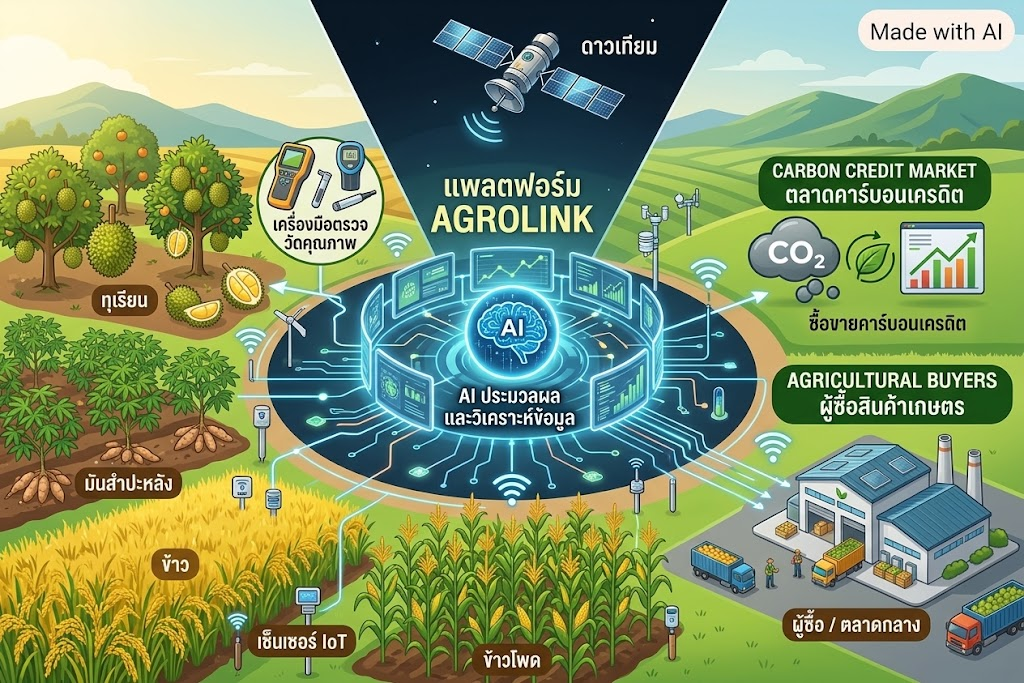
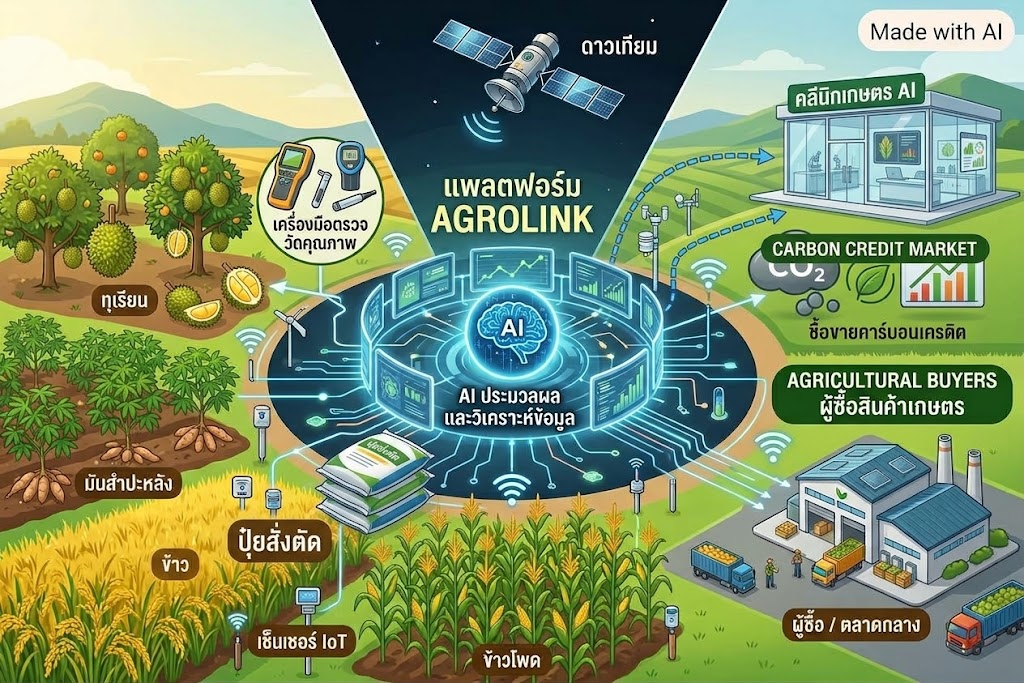
แทนที่ภาพอินโฟกราฟิกแพลตฟอร์ม AGROLINK ในเมนูเกษตรกรผู้ปลูกพืช
- แทนที่ assets/crop-farmer-platform-infographic.jpg ด้วยเวอร์ชันใหม่ที่มีกล่อง
  "คลินิกเกษตร AI" เชื่อมด้วยเส้นประ และไอคอนปุ๋ยสั่งตัดเฉพาะแปลงเพิ่มเติม
- ปรับข้อความ alt/caption (for-farmers-crop_82, _83) ใน
  js/i18n-for-farmers-crop.js และ inline alt ใน for-farmers-crop.html
  ให้ตรงกับเนื้อหาภาพใหม่ (คลินิกเกษตร AI, ตลาดคาร์บอนเครดิต, ผู้ซื้อ,
  คำแนะนำปุ๋ยสั่งตัด)

QA ที่ทำ:
- ตรวจสอบ HTML tag balance ของ for-farmers-crop.html ผ่าน
- ตรวจสอบ data-i18n key coverage ของคีย์ _82/_83 ผ่าน
- node --check js/i18n-for-farmers-crop.js ผ่าน
- Playwright ตรวจ overflow ที่ 1280px และ 375px = 0px ทั้งคู่,
  ภาพโหลดสำเร็จ (naturalWidth 1024, naturalHeight 683)
- ตรวจสอบภาพด้วยสายตาผ่าน screenshot ยืนยันภาพใหม่แสดงผลถูกต้อง

Claude-Session: https://claude.ai/code/session_01DUDEJv5HwkbqERHq6D2vhX

diff --git a/frontend/js/i18n-for-farmers-crop.js b/frontend/js/i18n-for-farmers-crop.js
@@ -324,11 +324,11 @@ window.AGROLINK_I18N = Object.assign(window.AGROLINK_I18N || {}, {
     "en": "Talk to Our Team"
   },
   "for-farmers-crop_82": {
-    "th": "อินโฟกราฟิกแพลตฟอร์ม AGROLINK เชื่อมโยงเกษตรกรผู้ปลูกพืช (ทุเรียน มันสำปะหลัง ข้าว ข้าวโพด) ด้วยเซ็นเซอร์ IoT ดาวเทียม และ AI ประมวลผลและวิเคราะห์ข้อมูล สู่ตลาดคาร์บอนเครดิตและผู้ซื้อสินค้าเกษตร",
-    "en": "Infographic of the AGROLINK platform connecting crop farmers (durian, cassava, rice, corn) via IoT sensors, satellites, and AI data processing to the carbon credit market and agricultural buyers"
+    "th": "อินโฟกราฟิกแพลตฟอร์ม AGROLINK เชื่อมโยงเกษตรกรผู้ปลูกพืช (ทุเรียน มันสำปะหลัง ข้าว ข้าวโพด) ด้วยเซ็นเซอร์ IoT ดาวเทียม และ AI ประมวลผลและวิเคราะห์ข้อมูล สู่คลินิกเกษตร AI ตลาดคาร์บอนเครดิต และผู้ซื้อสินค้าเกษตร",
+    "en": "Infographic of the AGROLINK platform connecting crop farmers (durian, cassava, rice, corn) via IoT sensors, satellites, and AI data processing to the AI agriculture clinic, the carbon credit market, and agricultural buyers"
   },
   "for-farmers-crop_83": {
-    "th": "ภาพรวมแพลตฟอร์ม AgroLink สำหรับเกษตรกรผู้ปลูกพืช — เชื่อมโยงแปลงปลูกสู่ตลาดคาร์บอนเครดิตและผู้ซื้อด้วยเทคโนโลยี IoT ดาวเทียม และ AI",
-    "en": "Overview of the AgroLink platform for crop farmers — connecting fields to the carbon credit market and buyers through IoT, satellite, and AI technology"
+    "th": "ภาพรวมแพลตฟอร์ม AgroLink สำหรับเกษตรกรผู้ปลูกพืช — เชื่อมโยงแปลงปลูกสู่คลินิกเกษตร AI ตลาดคาร์บอนเครดิต และผู้ซื้อ ด้วยเทคโนโลยี IoT ดาวเทียม และ AI รวมถึงคำแนะนำปุ๋ยสั่งตัดเฉพาะแปลง",
+    "en": "Overview of the AgroLink platform for crop farmers — connecting fields to the AI agriculture clinic, carbon credit market, and buyers through IoT, satellite, and AI technology, including custom-tailored fertilizer guidance"
   }
 });

diff --git a/frontend/for-farmers-crop.html b/frontend/for-farmers-crop.html
@@ -307,8 +307,8 @@
 <section class="infographic-wrap">
   <div class="container">
     <figure class="infographic-figure reveal in">
-      <img src="assets/crop-farmer-platform-infographic.jpg" data-i18n="for-farmers-crop_82" data-i18n-attr="alt" alt="อินโฟกราฟิกแพลตฟอร์ม AGROLINK เชื่อมโยงเกษตรกรผู้ปลูกพืช (ทุเรียน มันสำปะหลัง ข้าว ข้าวโพด) ด้วยเซ็นเซอร์ IoT ดาวเทียม และ AI ประมวลผลและวิเคราะห์ข้อมูล สู่ตลาดคาร์บอนเครดิตและผู้ซื้อสินค้าเกษตร" loading="lazy">
-      <figcaption data-i18n="for-farmers-crop_83">ภาพรวมแพลตฟอร์ม AgroLink สำหรับเกษตรกรผู้ปลูกพืช — เชื่อมโยงแปลงปลูกสู่ตลาดคาร์บอนเครดิตและผู้ซื้อด้วยเทคโนโลยี IoT ดาวเทียม และ AI</figcaption>
+      <img src="assets/crop-farmer-platform-infographic.jpg" data-i18n="for-farmers-crop_82" data-i18n-attr="alt" alt="อินโฟกราฟิกแพลตฟอร์ม AGROLINK เชื่อมโยงเกษตรกรผู้ปลูกพืช (ทุเรียน มันสำปะหลัง ข้าว ข้าวโพด) ด้วยเซ็นเซอร์ IoT ดาวเทียม และ AI ประมวลผลและวิเคราะห์ข้อมูล สู่คลินิกเกษตร AI ตลาดคาร์บอนเครดิต และผู้ซื้อสินค้าเกษตร" loading="lazy">
+      <figcaption data-i18n="for-farmers-crop_83">ภาพรวมแพลตฟอร์ม AgroLink สำหรับเกษตรกรผู้ปลูกพืช — เชื่อมโยงแปลงปลูกสู่คลินิกเกษตร AI ตลาดคาร์บอนเครดิต และผู้ซื้อ ด้วยเทคโนโลยี IoT ดาวเทียม และ AI รวมถึงคำแนะนำปุ๋ยสั่งตัดเฉพาะแปลง</figcaption>
     </figure>
   </div>
 </section>
